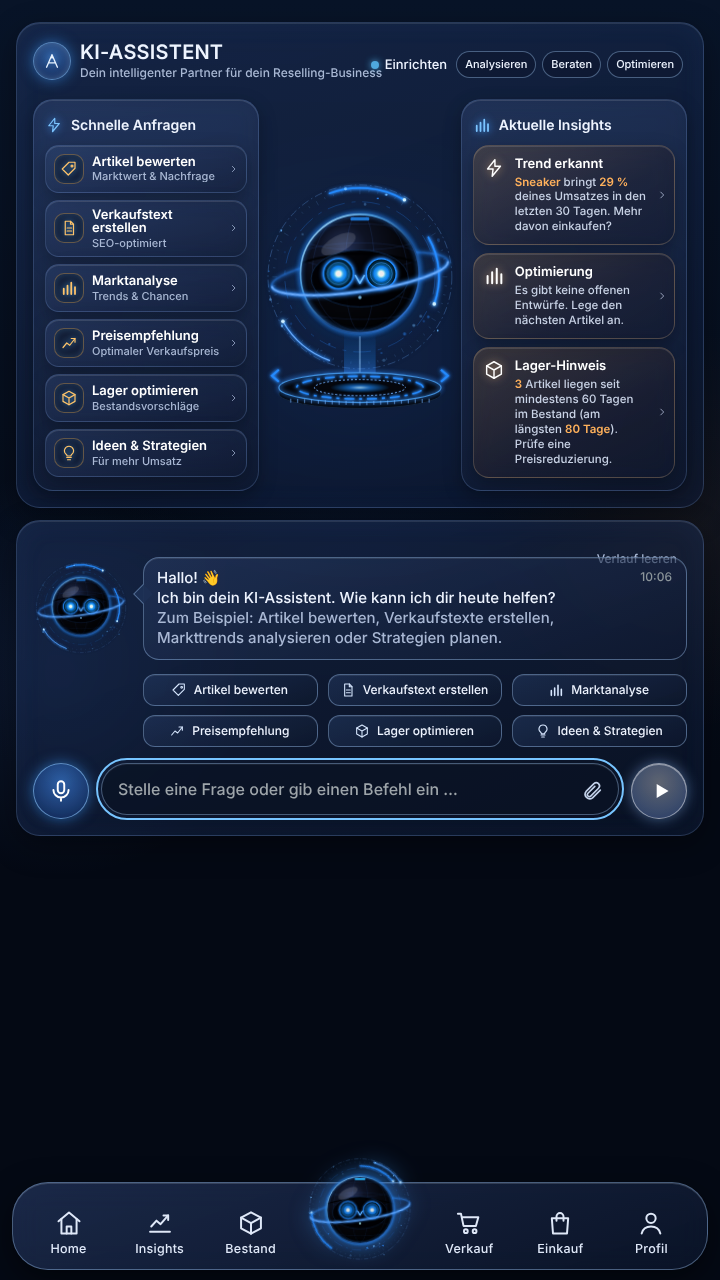
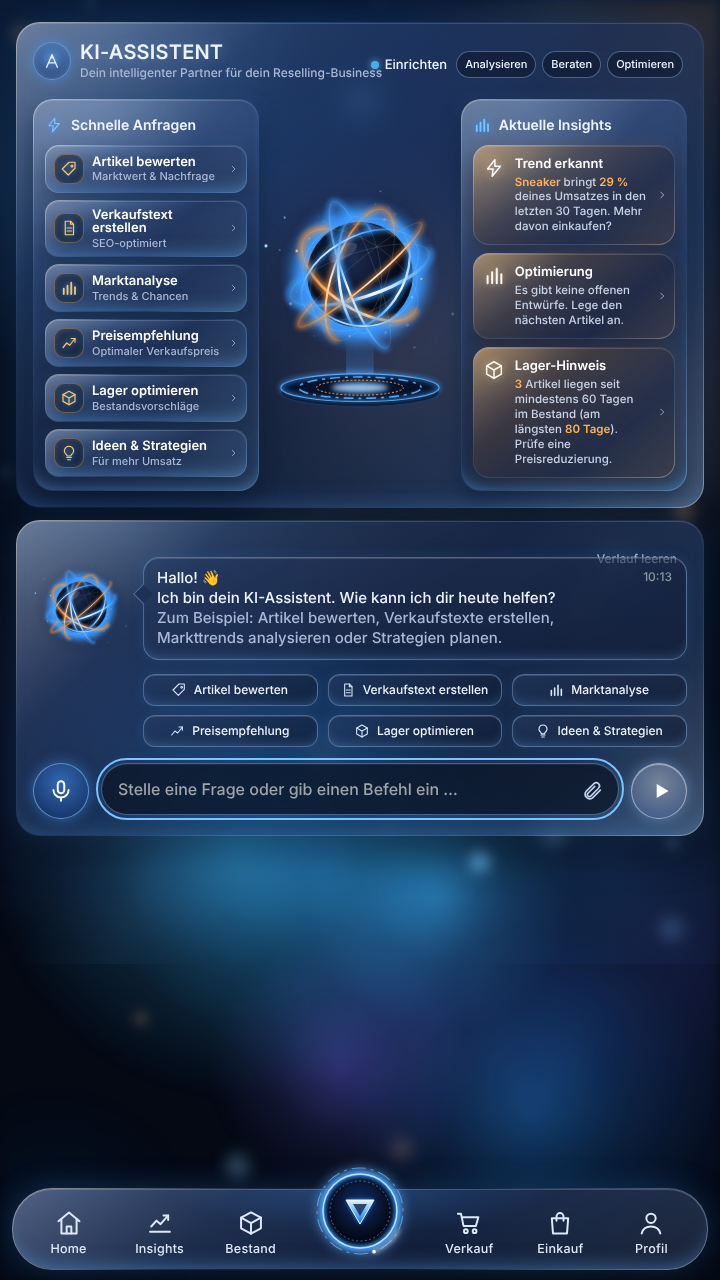
Energieball, Lichteffekte, Hintergrundlichter, Menü und Globus-Glanz nach Vorlage
- Energieball (dunkler Kern mit drehenden Lichtbändern in Blau/Orange) statt
  Roboter auf Startseite und KI-Chat; Menümitte als leuchtender Ring mit Dreieck
- Alle Glasflächen mit leuchtendem Verlaufsrand, Glanzkante, Spiegelung und Glow
- Farbige, langsam treibende Lichter und Lichtflecken hinter dem Glas
- Menü als Glasleiste mit Lichtrand, aktiver Eintrag als leuchtende blaue Fläche
- Globus: Leuchthof, Lichtsäule, zusätzliche Orbitbahnen, Sternfunkeln, stärkerer Schein

Claude-Session: https://claude.ai/code/session_0194bcZ5PbUBuV3hzmwdGD96

diff --git a/public/fx.js b/public/fx.js
@@ -356,6 +356,25 @@
       var sx = 43 + Math.cos(ang) * dist * 1.25, sy = 50 + Math.sin(ang) * dist * 0.95;
       sparks.appendChild(svgEl('circle', { cx: sx.toFixed(2), cy: sy.toFixed(2), r: (0.35 + rnd() * 0.7).toFixed(2), fill: rnd() < 0.7 ? '#308cff' : '#7ac2ff', class: 'cc-spark cc-spark-' + (sp % 4) }));
     }
+    // Mehr Licht: Leuchthof, Lichtsäule, zusätzliche Orbitbahnen, Sternfunkeln
+    var lgB = svgEl('linearGradient', { id: 'ccPillar', x1: '0', y1: '0', x2: '0', y2: '1' });
+    [['0', '0'], ['.3', '.55'], ['.5', '1'], ['.7', '.55'], ['1', '0']].forEach(function (q) { lgB.appendChild(svgEl('stop', { offset: q[0], 'stop-color': '#bfe3ff', 'stop-opacity': q[1] })); });
+    bd.appendChild(lgB);
+    var rgG = svgEl('radialGradient', { id: 'ccGlowHalo', cx: '43', cy: '50', r: '48', gradientUnits: 'userSpaceOnUse' });
+    [['0', '#5fb4ff', '.0'], ['.68', '#3d9bff', '.0'], ['.72', '#3d9bff', '.55'], ['.8', '#2a7ae0', '.22'], ['1', '#000', '0']].forEach(function (q) { rgG.appendChild(svgEl('stop', { offset: q[0], 'stop-color': q[1], 'stop-opacity': q[2] })); });
+    bd.appendChild(rgG);
+    bg.appendChild(svgEl('circle', { cx: '43', cy: '50', r: '48', fill: 'url(#ccGlowHalo)', class: 'cc-field-halo' }));
+    bg.appendChild(svgEl('rect', { x: '42.4', y: '-45', width: '1.2', height: '190', fill: 'url(#ccPillar)', class: 'cc-glowline cc-beam' }));
+    bg.appendChild(svgEl('rect', { x: '-30', y: '49.6', width: '146', height: '.8', fill: 'url(#ccStreak)', opacity: '.8' }));
+    [[52, 12, -16, '.9', '#5fb4ff', '14s'], [58, 16, 12, '.6', '#9fd2ff', '20s'], [47, 7, -4, '.5', '#ffb066', '11s']].forEach(function (q, k) {
+      var e = svgEl('ellipse', { cx: '43', cy: '50', rx: String(q[0]), ry: String(q[1]), fill: 'none', stroke: q[4], 'stroke-width': q[3], transform: 'rotate(' + q[2] + ' 43 50)', 'stroke-dasharray': k === 1 ? '6 3 1 3' : '30 8', class: 'cc-glowline cc-orbit-flow', style: 'animation-duration:' + q[5] });
+      bg.appendChild(e);
+    });
+    [[8, 14, 2.4], [82, 24, 3], [92, 78, 2.2], [-4, 86, 2.6], [60, -2, 2], [20, 104, 1.8]].forEach(function (q, k) {
+      var x = q[0], y = q[1], r = q[2];
+      var st = svgEl('path', { d: 'M' + x + ' ' + (y - r) + ' Q' + x + ' ' + y + ' ' + (x + r) + ' ' + y + ' Q' + x + ' ' + y + ' ' + x + ' ' + (y + r) + ' Q' + x + ' ' + y + ' ' + (x - r) + ' ' + y + ' Q' + x + ' ' + y + ' ' + x + ' ' + (y - r) + 'Z', fill: k % 3 === 2 ? '#ffd2a0' : '#e6f4ff', class: 'cc-spark cc-spark-' + (k % 4) });
+      bg.appendChild(st);
+    });
     wrap.insertBefore(bg, wrap.firstChild);
     earths.push(e);
     wrap.classList.add('cc-live');
@@ -515,20 +534,6 @@
     Array.prototype.forEach.call(doc.querySelectorAll('.cc-rbot-host'), function (h) { h.classList.toggle('cc-busy', st === 'busy'); });
   });
 
-  function setupRobot() {
-    var f = doc.querySelector('.v15-bot-frame'); if (!f || f.querySelector('.cc-rbot')) return;
-    Array.prototype.slice.call(f.children).forEach(function (c) { c.remove(); });
-    buildBot(f, { R: 58 });
-    var chat = doc.getElementById('ccChatBot'); if (chat && !chat.querySelector('.cc-rbot')) buildBot(chat, { R: 60, pedestal: true });
-    var av = doc.getElementById('ccChatAvatar'); if (av && !av.querySelector('.cc-rbot')) buildBot(av, { R: 60 });
-  }
-
-  /* Mitte des Menüs: der KI-Chat als kleiner Roboter im Kraftfeld */
-  function setupNavCore() {
-    var btn = doc.querySelector('#bottomnav .orb'); if (!btn || btn.querySelector('.cc-rbot')) return;
-    buildBot(btn, { R: 62 });
-  }
-
   /* Menü: rotes Aufleuchten beim Antippen */
   function setupNavTap() {
     var nav = doc.getElementById('bottomnav'); if (!nav || nav.dataset.ccTap) return; nav.dataset.ccTap = '1';
@@ -557,28 +562,132 @@
     });
   }
 
-  /* Glutpartikel im Hintergrund */
+  /* Energieball wie in der Vorlage: dunkler Kern, umkreist von leuchtenden Lichtbändern in Blau und Orange */
+  var orbSerial = 0;
+  function buildOrb(host, opt) {
+    opt = opt || {};
+    var id = 'eo' + (++orbSerial), C = 100, Y = 100, R = opt.R || 40, H = opt.pedestal ? 236 : 200;
+    var S = svgEl('svg', { viewBox: '0 0 200 ' + H, class: 'cc-orb', 'aria-hidden': 'true', focusable: 'false' });
+    var d = svgEl('defs', {}); S.appendChild(d);
+    function A(tag, at, p) { var e = svgEl(tag, at); (p || S).appendChild(e); return e; }
+    function grad(type, gid, at, stops) { var g = svgEl(type, Object.assign({ id: id + gid }, at || {})); stops.forEach(function (q) { g.appendChild(svgEl('stop', { offset: q[0], 'stop-color': q[1], 'stop-opacity': q[2] == null ? '1' : q[2] })); }); d.appendChild(g); }
+    function blur(fid, sd) { var f = svgEl('filter', { id: id + fid, x: '-60%', y: '-60%', width: '220%', height: '220%' }); f.appendChild(svgEl('feGaussianBlur', { stdDeviation: sd })); d.appendChild(f); }
+    grad('radialGradient', 'h', { cx: C, cy: Y, r: 98, gradientUnits: 'userSpaceOnUse' }, [['0', '#3d9bff', '.45'], ['.4', '#1f5fd0', '.18'], ['1', '#000', '0']]);
+    grad('radialGradient', 'k', { cx: '.42', cy: '.36', r: '.75' }, [['0', '#1c2c52'], ['.55', '#070d1c'], ['1', '#010309']]);
+    grad('linearGradient', 'wb', { x1: '0', y1: '0', x2: '1', y2: '0' }, [['0', '#3d9bff', '0'], ['.35', '#5fb4ff'], ['.55', '#ffffff'], ['.8', '#9fd2ff'], ['1', '#3d9bff', '0']]);
+    grad('linearGradient', 'wo', { x1: '0', y1: '0', x2: '1', y2: '0' }, [['0', '#ff9a40', '0'], ['.35', '#ffb066'], ['.55', '#fff2dc'], ['.8', '#ffc58a'], ['1', '#ff9a40', '0']]);
+    blur('g', '2.6'); blur('G', '7');
+    A('circle', { cx: C, cy: Y, r: 98, fill: 'url(#' + id + 'h)', class: 'cc-field-halo' });
+    if (opt.pedestal) {
+      var py = 212;
+      grad('linearGradient', 'b', { x1: '0', y1: '0', x2: '0', y2: '1' }, [['0', '#3d9bff', '0'], ['.6', '#3d9bff', '.25'], ['1', '#9fd2ff', '.65']]);
+      A('rect', { x: C - 14, y: Y + R, width: 28, height: py - Y - R, fill: 'url(#' + id + 'b)', class: 'cc-beam' });
+      A('ellipse', { cx: C, cy: py + 5, rx: 80, ry: 14, fill: '#030814', stroke: '#1d3460', 'stroke-width': '1' });
+      A('ellipse', { cx: C, cy: py, rx: 80, ry: 14, fill: '#06122a', stroke: '#7cc4ff', 'stroke-width': '1.1' });
+      A('ellipse', { cx: C, cy: py, rx: 80, ry: 14, fill: 'none', stroke: '#3d9bff', 'stroke-width': '4', opacity: '.6', filter: 'url(#' + id + 'g)' });
+      A('ellipse', { cx: C, cy: py, rx: 62, ry: 10.8, fill: 'none', stroke: '#5fb4ff', 'stroke-width': '1.5', 'stroke-dasharray': '10 5 3 5', class: 'cc-ped-dash' });
+      A('ellipse', { cx: C, cy: py, rx: 44, ry: 7.6, fill: 'none', stroke: '#ffb066', 'stroke-width': '1', 'stroke-dasharray': '2 2', class: 'cc-ped-dash cc-ped-rev' });
+      A('ellipse', { cx: C, cy: py, rx: 28, ry: 5, fill: '#9fd2ff', opacity: '.55', filter: 'url(#' + id + 'g)', class: 'cc-field-halo' });
+    }
+    var body = A('g', { class: 'cc-orb-float' });
+    A('circle', { cx: C, cy: Y, r: R * 1.25, fill: '#3d9bff', opacity: '.35', filter: 'url(#' + id + 'G)', class: 'cc-orb-pulse' }, body);
+    A('circle', { cx: C, cy: Y, r: R, fill: 'url(#' + id + 'k)' }, body);
+    A('circle', { cx: C, cy: Y, r: R, fill: 'none', stroke: '#7cc4ff', 'stroke-width': '1', opacity: '.6' }, body);
+    // Lichtbänder: gekippte Ellipsen, die sich mit unterschiedlichem Tempo drehen
+    var bands = [[1.36, .42, -18, '9s', 'wb', 1, 3.4], [1.24, .62, 34, '7s', 'wo', -1, 2.8], [1.46, .3, 70, '12s', 'wb', 1, 2.2],
+                 [1.16, .8, -55, '6s', 'wb', -1, 2.4], [1.3, .5, 110, '10s', 'wo', 1, 2], [1.08, .95, 15, '14s', 'wb', -1, 1.6],
+                 [1.5, .22, -40, '8s', 'wo', -1, 1.6], [1.2, .7, 150, '11s', 'wb', 1, 1.8], [1.1, .4, 85, '5.5s', 'wb', -1, 2.6]];
+    bands.forEach(function (b, i) {
+      var g = A('g', {}, body);
+      if (!reduce) g.appendChild(svgEl('animateTransform', { attributeName: 'transform', type: 'rotate', values: (b[5] > 0 ? '0 ' : '360 ') + C + ' ' + Y + ';' + (b[5] > 0 ? '360 ' : '0 ') + C + ' ' + Y, dur: b[3], repeatCount: 'indefinite' }));
+      var tr = 'rotate(' + b[2] + ' ' + C + ' ' + Y + ')';
+      A('ellipse', { cx: C, cy: Y, rx: R * b[0], ry: R * b[1], fill: 'none', stroke: b[4] === 'wo' ? '#ff9a40' : '#3d9bff', 'stroke-width': b[6] * 3, opacity: '.6', filter: 'url(#' + id + 'g)', transform: tr, pathLength: '100', 'stroke-dasharray': '58 42', 'stroke-linecap': 'round' }, g);
+      A('ellipse', { cx: C, cy: Y, rx: R * b[0], ry: R * b[1], fill: 'none', stroke: 'url(#' + id + b[4] + ')', 'stroke-width': b[6], transform: tr, pathLength: '100', 'stroke-dasharray': '58 42', 'stroke-linecap': 'round' }, g);
+      A('ellipse', { cx: C, cy: Y, rx: R * b[0], ry: R * b[1], fill: 'none', stroke: b[4] === 'wo' ? '#ffd2a0' : '#bfe3ff', 'stroke-width': '.4', opacity: '.35', transform: tr }, g);
+    });
+    var sp = A('g', {}, body), seed = 9;
+    function rnd() { seed = (seed * 9301 + 49297) % 233280; return seed / 233280; }
+    if (!reduce) sp.appendChild(svgEl('animateTransform', { attributeName: 'transform', type: 'rotate', values: '0 ' + C + ' ' + Y + ';360 ' + C + ' ' + Y, dur: '40s', repeatCount: 'indefinite' }));
+    for (var i = 0; i < 22; i++) { var an = rnd() * 6.283, ds = R * (1.1 + rnd() * 0.9); A('circle', { cx: (C + Math.cos(an) * ds).toFixed(1), cy: (Y + Math.sin(an) * ds * 0.8).toFixed(1), r: (0.5 + rnd() * 1.1).toFixed(2), fill: rnd() < 0.65 ? '#bfe3ff' : '#ffc58a', class: 'cc-spark cc-spark-' + (i % 4) }, sp); }
+    A('ellipse', { cx: C - R * 0.32, cy: Y - R * 0.42, rx: R * 0.3, ry: R * 0.12, fill: '#fff', opacity: '.14', transform: 'rotate(-30 ' + (C - R * 0.32) + ' ' + (Y - R * 0.42) + ')' }, body);
+    host.appendChild(S); host.classList.add('cc-orb-host');
+    return S;
+  }
+
+  /* Menümitte: leuchtender Ring mit Lichtreflex und Dreieck (KI-Chat) */
+  function buildNavOrb(host) {
+    var id = 'no' + (++orbSerial), S = svgEl('svg', { viewBox: '0 0 100 100', class: 'cc-navorb', 'aria-hidden': 'true' });
+    var d = svgEl('defs', {}); S.appendChild(d);
+    function A(tag, at, p) { var e = svgEl(tag, at); (p || S).appendChild(e); return e; }
+    function grad(type, gid, at, stops) { var g = svgEl(type, Object.assign({ id: id + gid }, at || {})); stops.forEach(function (q) { g.appendChild(svgEl('stop', { offset: q[0], 'stop-color': q[1], 'stop-opacity': q[2] == null ? '1' : q[2] })); }); d.appendChild(g); }
+    var f = svgEl('filter', { id: id + 'g', x: '-60%', y: '-60%', width: '220%', height: '220%' }); f.appendChild(svgEl('feGaussianBlur', { stdDeviation: '2.2' })); d.appendChild(f);
+    grad('radialGradient', 'h', {}, [['0', '#3d9bff', '.6'], ['.55', '#1f5fd0', '.25'], ['1', '#000', '0']]);
+    grad('radialGradient', 'k', { cx: '.5', cy: '.4', r: '.6' }, [['0', '#12306a'], ['.7', '#050c1e'], ['1', '#02050e']]);
+    grad('linearGradient', 'l', { x1: '0', y1: '0', x2: '1', y2: '0' }, [['0', '#7cc4ff', '0'], ['.5', '#ffffff'], ['1', '#7cc4ff', '0']]);
+    grad('linearGradient', 't', { x1: '0', y1: '0', x2: '0', y2: '1' }, [['0', '#e6f4ff'], ['.5', '#5fb4ff'], ['1', '#1f6fe0']]);
+    A('circle', { cx: 50, cy: 50, r: 50, fill: 'url(#' + id + 'h)', class: 'cc-field-halo' });
+    A('circle', { cx: 50, cy: 50, r: 36, fill: 'url(#' + id + 'k)' });
+    A('circle', { cx: 50, cy: 50, r: 37, fill: 'none', stroke: '#3d9bff', 'stroke-width': '5', opacity: '.7', filter: 'url(#' + id + 'g)', class: 'cc-orb-pulse' });
+    A('circle', { cx: 50, cy: 50, r: 37, fill: 'none', stroke: '#bfe3ff', 'stroke-width': '1.4' });
+    function rot(v, dur) { var g = A('g', {}); if (!reduce) g.appendChild(svgEl('animateTransform', { attributeName: 'transform', type: 'rotate', values: v, dur: dur, repeatCount: 'indefinite' })); return g; }
+    A('circle', { cx: 50, cy: 50, r: 43, fill: 'none', stroke: '#5fb4ff', 'stroke-width': '1', 'stroke-dasharray': '14 5 3 5', opacity: '.8' }, rot('0 50 50;360 50 50', '12s'));
+    A('circle', { cx: 50, cy: 50, r: 30, fill: 'none', stroke: '#9fd2ff', 'stroke-width': '.6', 'stroke-dasharray': '2 2.4', opacity: '.7' }, rot('360 50 50;0 50 50', '9s'));
+    var cm = rot('0 50 50;360 50 50', '3.8s');
+    A('path', { d: 'M50 7 A43 43 0 0 1 80.4 19.6', fill: 'none', stroke: '#ffffff', 'stroke-width': '1.6', 'stroke-linecap': 'round', filter: 'url(#' + id + 'g)' }, cm);
+    A('circle', { cx: 80.4, cy: 19.6, r: 1.8, fill: '#fff' }, cm);
+    A('path', { d: 'M4 50 H96', stroke: 'url(#' + id + 'l)', 'stroke-width': '1.2', opacity: '.85' });
+    A('path', { d: 'M36 39 H64 L50 63 Z', fill: '#3d9bff', opacity: '.8', filter: 'url(#' + id + 'g)', class: 'cc-orb-pulse' });
+    A('path', { d: 'M36 39 H64 L50 63 Z', fill: 'url(#' + id + 't)', stroke: '#e6f4ff', 'stroke-width': '1', 'stroke-linejoin': 'round' });
+    A('path', { d: 'M43 43 H57 L50 55 Z', fill: '#0a1a3a', opacity: '.75' });
+    host.appendChild(S);
+    return S;
+  }
+
+  function setupRobot() {
+    var f = doc.querySelector('.v15-bot-frame'); if (!f || f.querySelector('.cc-orb')) return;
+    Array.prototype.slice.call(f.children).forEach(function (c) { c.remove(); });
+    buildOrb(f, { R: 54 });
+    var chat = doc.getElementById('ccChatBot'); if (chat && !chat.querySelector('.cc-orb')) { chat.innerHTML = ''; buildOrb(chat, { R: 54, pedestal: true }); }
+    var av = doc.getElementById('ccChatAvatar'); if (av && !av.querySelector('.cc-orb')) { av.innerHTML = ''; buildOrb(av, { R: 54 }); }
+  }
+  doc.addEventListener('rv:ai-state', function (e) {
+    var st = e && e.detail && e.detail.state;
+    Array.prototype.forEach.call(doc.querySelectorAll('.cc-orb-host'), function (h) { h.classList.toggle('cc-busy', st === 'busy'); });
+  });
+
+  function setupNavCore() {
+    var btn = doc.querySelector('#bottomnav .orb'); if (!btn || btn.querySelector('.cc-navorb')) return;
+    btn.innerHTML = ''; buildNavOrb(btn);
+  }
+
+  /* Farbige Lichter hinter dem Glas: weiche, langsam treibende Lichtflecken */
   var embers = null;
   function setupEmbers() {
-    if (reduce || doc.querySelector('.cc-embers')) return;
-    var c = doc.createElement('canvas'); c.className = 'cc-embers'; c.setAttribute('aria-hidden', 'true');
-    doc.body.appendChild(c);
+    if (doc.querySelector('.cc-bokeh')) return;
+    var c = doc.createElement('canvas'); c.className = 'cc-bokeh'; c.setAttribute('aria-hidden', 'true');
+    doc.body.insertBefore(c, doc.body.firstChild);
     var ctx = c.getContext('2d'), list = [];
-    function size() { var dpr = Math.min(window.devicePixelRatio || 1, 1.5); c.width = Math.round(innerWidth * dpr); c.height = Math.round(innerHeight * dpr); c.dataset.dpr = dpr; }
+    function size() { c.width = Math.round(innerWidth * 0.5); c.height = Math.round(innerHeight * 0.5); }
     size(); window.addEventListener('resize', size);
-    for (var i = 0; i < 34; i++) list.push({ x: Math.random(), y: Math.random(), v: 0.015 + Math.random() * 0.04, r: 0.6 + Math.random() * 1.6, ph: Math.random() * 6.28, red: Math.random() < 0.6 });
+    var cols = ['61,155,255', '80,190,255', '120,110,255', '255,160,80', '61,155,255', '40,120,255'];
+    for (var i = 0; i < 18; i++) list.push({ x: Math.random(), y: Math.random(), r: 0.08 + Math.random() * 0.18, a: 0.16 + Math.random() * 0.2, vx: (Math.random() - .5) * 0.006, vy: (Math.random() - .5) * 0.006, ph: Math.random() * 6.28, c: cols[i % cols.length] });
+    for (var j = 0; j < 26; j++) list.push({ x: Math.random(), y: Math.random(), r: 0.006 + Math.random() * 0.012, a: 0.35 + Math.random() * 0.4, vx: (Math.random() - .5) * 0.01, vy: -0.004 - Math.random() * 0.01, ph: Math.random() * 6.28, c: Math.random() < .7 ? '150,205,255' : '255,190,120', dot: true });
     embers = function (t, dt) {
-      var w = c.width, h = c.height, dpr = +c.dataset.dpr || 1;
+      var w = c.width, h = c.height, m = Math.max(w, h);
       ctx.clearRect(0, 0, w, h);
+      ctx.globalCompositeOperation = 'lighter';
       for (var i = 0; i < list.length; i++) {
         var p = list[i];
-        p.y -= p.v * dt; if (p.y < -0.02) { p.y = 1.02; p.x = Math.random(); }
-        var x = (p.x + Math.sin(t * 0.6 + p.ph) * 0.01) * w, y = p.y * h;
-        var a = (0.25 + 0.5 * Math.max(0, Math.sin(t * 1.7 + p.ph))) * Math.min(1, p.y * 1.4);
-        ctx.fillStyle = p.red ? 'rgba(40,140,255,' + a + ')' : 'rgba(110,190,255,' + a + ')';
-        ctx.beginPath(); ctx.arc(x, y, p.r * dpr, 0, 6.2832); ctx.fill();
+        p.x += p.vx * dt; p.y += p.vy * dt;
+        if (p.x < -0.2) p.x = 1.2; if (p.x > 1.2) p.x = -0.2; if (p.y < -0.2) p.y = 1.2; if (p.y > 1.2) p.y = -0.2;
+        var a = p.a * (0.7 + 0.3 * Math.sin(t * 0.7 + p.ph)), x = p.x * w, y = p.y * h, r = p.r * m;
+        var g = ctx.createRadialGradient(x, y, 0, x, y, r);
+        g.addColorStop(0, 'rgba(' + p.c + ',' + a + ')'); g.addColorStop(p.dot ? 0.35 : 0.5, 'rgba(' + p.c + ',' + (a * (p.dot ? 0.5 : 0.35)) + ')'); g.addColorStop(1, 'rgba(' + p.c + ',0)');
+        ctx.fillStyle = g; ctx.beginPath(); ctx.arc(x, y, r, 0, 6.2832); ctx.fill();
       }
+      ctx.globalCompositeOperation = 'source-over';
     };
+    if (reduce) embers(0, 0);
   }
 
   /* ---------- 5) Zahlen hochzählen, wenn sich ein Wert ändert ---------- */
@@ -616,11 +725,12 @@
   var start = performance.now(), lastFrame = 0, lastT = 0;
   function frame(now) {
     requestAnimationFrame(frame);
-    if (doc.hidden || !homeVisible()) return;
+    var hv = homeVisible(), ch = doc.getElementById('aiChat'), cv = !!ch && !ch.classList.contains('hidden');
+    if (doc.hidden || !(hv || cv)) return;
     if (now - lastFrame < 33) return;
     lastFrame = now;
     var t = (now - start) / 1000, dt = Math.min(0.1, t - lastT); lastT = t;
-    for (var i = 0; i < earths.length; i++) { if (earths[i].resize()) earths[i].draw(t); }
+    if (hv) for (var i = 0; i < earths.length; i++) { if (earths[i].resize()) earths[i].draw(t); }
     if (embers) embers(t, dt);
   }
   function drawStatic() { for (var i = 0; i < earths.length; i++) { if (earths[i].resize()) earths[i].draw(0); } }

diff --git a/public/theme.css b/public/theme.css
@@ -169,3 +169,80 @@ body:has(#home:not(.hidden)) .v11-ai .rv-crafted-chat #homeAiSend, .cc-send {
 .v11-ai .v11-ph { padding-right:310px !important; }
 @media(max-width:999px) { .v11-ai .v11-ph { padding-right:290px !important; } }
 html:has(#home:not(.hidden)), html:has(#aiChat:not(.hidden)) { background:#040914; }
+
+/* ===== Lichter hinter dem Glas ===== */
+.cc-bokeh { display:none; position:fixed; left:0; top:0; width:100vw; height:100vh; z-index:0; pointer-events:none; filter:blur(6px) saturate(1.2); }
+body:has(#home:not(.hidden)) .cc-bokeh, body:has(#aiChat:not(.hidden)) .cc-bokeh { display:block; }
+body:has(#home:not(.hidden)) main.wrap, body:has(#aiChat:not(.hidden)) #aiChat { position:relative; z-index:1; }
+body:has(#home:not(.hidden)), body:has(#aiChat:not(.hidden)) {
+  background:
+    radial-gradient(ellipse 45% 30% at 12% 18%, rgba(61,155,255,.20), transparent 70%),
+    radial-gradient(ellipse 35% 28% at 92% 40%, rgba(255,150,70,.12), transparent 70%),
+    radial-gradient(ellipse 50% 30% at 20% 78%, rgba(90,110,255,.16), transparent 70%),
+    radial-gradient(ellipse 40% 25% at 85% 88%, rgba(61,155,255,.16), transparent 70%),
+    linear-gradient(115deg, transparent 40%, rgba(120,180,255,.05) 48%, transparent 56%),
+    linear-gradient(180deg, #091830, #040914 65%) fixed !important;
+}
+
+/* ===== Lichteffekte auf allen Glasflächen: leuchtender Verlaufsrand, Glanzkante, Spiegelung ===== */
+.v11-panel {
+  border:1px solid transparent !important;
+  background:
+    radial-gradient(ellipse 45% 40% at 12% 0%, rgba(140,195,255,.16), transparent 70%) padding-box,
+    radial-gradient(ellipse 60% 50% at 90% 100%, rgba(61,155,255,.10), transparent 70%) padding-box,
+    linear-gradient(160deg, rgba(36,58,104,.50), rgba(12,22,44,.58)) padding-box,
+    linear-gradient(135deg, rgba(255,255,255,.65), rgba(140,195,255,.22) 22%, rgba(80,130,220,.10) 50%, rgba(120,180,255,.30) 80%, rgba(220,240,255,.6)) border-box !important;
+  box-shadow: 0 0 28px rgba(61,155,255,.16), 0 14px 40px rgba(0,0,0,.45), inset 0 1px 0 rgba(255,255,255,.14), inset 0 -18px 30px -24px rgba(90,170,255,.45) !important;
+}
+.v11-tile, .v11-q, .v11-m, .v11-cat, .v11-s2, .cc-side, .cc-chat .cc-q, .v11-pill {
+  border:1px solid transparent !important;
+  background:
+    radial-gradient(ellipse 70% 45% at 30% 0%, rgba(160,205,255,.18), transparent 70%) padding-box,
+    linear-gradient(165deg, rgba(50,76,126,.48), rgba(14,24,48,.58)) padding-box,
+    linear-gradient(140deg, rgba(255,255,255,.55), rgba(140,190,255,.16) 30%, rgba(80,130,220,.08) 60%, rgba(140,200,255,.45)) border-box !important;
+  box-shadow: 0 0 16px rgba(61,155,255,.12), 0 8px 20px rgba(0,0,0,.35), inset 0 1px 0 rgba(255,255,255,.16), inset 0 -12px 18px -12px rgba(110,180,255,.55) !important;
+}
+.v11-card {
+  border:1px solid transparent !important;
+  background:
+    radial-gradient(ellipse 60% 60% at 0% 0%, rgba(255,190,120,.22), transparent 70%) padding-box,
+    linear-gradient(150deg, rgba(110,80,50,.40), rgba(30,32,48,.58) 60%, rgba(16,24,46,.62)) padding-box,
+    linear-gradient(140deg, rgba(255,225,180,.6), rgba(255,190,120,.16) 35%, rgba(120,150,220,.12) 70%, rgba(255,210,160,.4)) border-box !important;
+  box-shadow: 0 0 18px rgba(255,160,80,.10), 0 8px 20px rgba(0,0,0,.35), inset 0 1px 0 rgba(255,255,255,.14) !important;
+}
+.v11-tile:hover, .v11-q:hover, .v11-card:hover, .cc-chat .cc-q:hover { filter:brightness(1.15); box-shadow:0 0 22px rgba(61,155,255,.35), 0 8px 20px rgba(0,0,0,.35), inset 0 1px 0 rgba(255,255,255,.2) !important; }
+.v11-tile .ic, .v11-q .ic { filter:drop-shadow(0 0 6px rgba(140,200,255,.8)) drop-shadow(0 0 14px rgba(61,155,255,.45)) !important; }
+.v11-title { text-shadow:0 0 12px rgba(120,180,255,.35) !important; }
+.v11-m .val, .v11-s2 .val { text-shadow:0 0 12px rgba(150,200,255,.35) !important; }
+.v11-bubble, .v11-prompts button, .cc-pills .chat-chip {
+  box-shadow:0 0 14px rgba(61,155,255,.12), inset 0 1px 0 rgba(255,255,255,.14), inset 0 -8px 14px -10px rgba(110,180,255,.45) !important; }
+body:has(#home:not(.hidden)) .v11-ai .rv-crafted-chat textarea, .cc-chat #chatInput { box-shadow:0 0 14px rgba(61,155,255,.15), inset 0 1px 0 rgba(255,255,255,.08) !important; }
+
+/* ===== Energieball ===== */
+.cc-orb { display:block; width:100%; height:auto; overflow:visible; }
+.cc-orb-float { animation:cc-rfloat 6s ease-in-out infinite; }
+.cc-orb-pulse { animation:cc-orbpulse 3.2s ease-in-out infinite; }
+.cc-busy .cc-orb { filter:brightness(1.3) saturate(1.2); }
+.cc-busy .cc-orb-pulse { animation-duration:.9s; }
+@keyframes cc-orbpulse { 0%,100% { opacity:.55; } 50% { opacity:1; } }
+.cc-orbit-flow { animation:cc-dash 16s linear infinite; }
+@media (prefers-reduced-motion: reduce) { .cc-orb-float, .cc-orb-pulse, .cc-orbit-flow { animation:none; } }
+
+/* ===== Globus: stärkerer Schein ===== */
+.v15-globe-wrap .cc-earth { box-shadow:0 0 6px 1px rgba(190,225,255,.75), 0 0 34px 8px rgba(61,155,255,.55), 0 0 90px 30px rgba(40,110,230,.22) !important; }
+.v15-globe-wrap .cc-globe-hud { filter:drop-shadow(0 0 3px rgba(95,180,255,.8)); }
+
+/* ===== Menü wie in der Vorlage ===== */
+.lux-bottomnav { border:1px solid transparent !important; border-radius:40px !important;
+  background:
+    radial-gradient(ellipse 40% 80% at 50% 0%, rgba(61,155,255,.22), transparent 70%) padding-box,
+    linear-gradient(165deg, rgba(46,70,118,.66), rgba(10,18,38,.84)) padding-box,
+    linear-gradient(135deg, rgba(255,255,255,.6), rgba(140,190,255,.18) 30%, rgba(80,130,220,.1) 60%, rgba(200,225,255,.55)) border-box !important;
+  box-shadow:0 0 30px rgba(61,155,255,.25), 0 14px 34px rgba(0,0,0,.55), inset 0 1px 0 rgba(255,255,255,.18), inset 0 -14px 22px -16px rgba(110,180,255,.6) !important; }
+.lux-bottomnav button:not(.orb)::before {
+  background:linear-gradient(180deg, rgba(110,185,255,.55), rgba(40,110,230,.45)) !important; border-radius:20px !important;
+  box-shadow:inset 0 1px 0 rgba(255,255,255,.45), inset 0 0 0 1px rgba(160,215,255,.6), 0 0 18px rgba(61,155,255,.65), 0 0 36px rgba(61,155,255,.3) !important; }
+.lux-bottomnav .orb { margin-top:-36px !important; }
+.lux-bottomnav .orb svg.cc-navorb { display:block; width:100px !important; height:100px !important; overflow:visible; filter:drop-shadow(0 0 12px rgba(61,155,255,.75)); transition:transform .2s ease, filter .2s ease; }
+.lux-bottomnav .orb.selected svg.cc-navorb, .lux-bottomnav .orb.cc-tap svg.cc-navorb { filter:drop-shadow(0 0 14px #6fb8ff) drop-shadow(0 0 30px #3d9bff); }
+.lux-bottomnav .orb.cc-tap svg.cc-navorb { transform:scale(.93); }

diff --git a/public/sw.js b/public/sw.js
@@ -1,4 +1,4 @@
-const CACHE='rv-studio-v19-blueglass-1';
+const CACHE='rv-studio-v19-blueglass-2';
 const FILES=['/','/index.html','/app.css','/dashboard.css','/fx.css','/ref.css','/theme.css','/app.js','/dashboard.js','/fx.js',
   '/vendor/jszip.min.js','/fonts/command-sans-regular.otf','/fonts/command-sans-bold.otf',
   '/rv-logo.jpg','/rv-ai-mascot.png','/rv-robot-premium.png','/rv-white.png',
